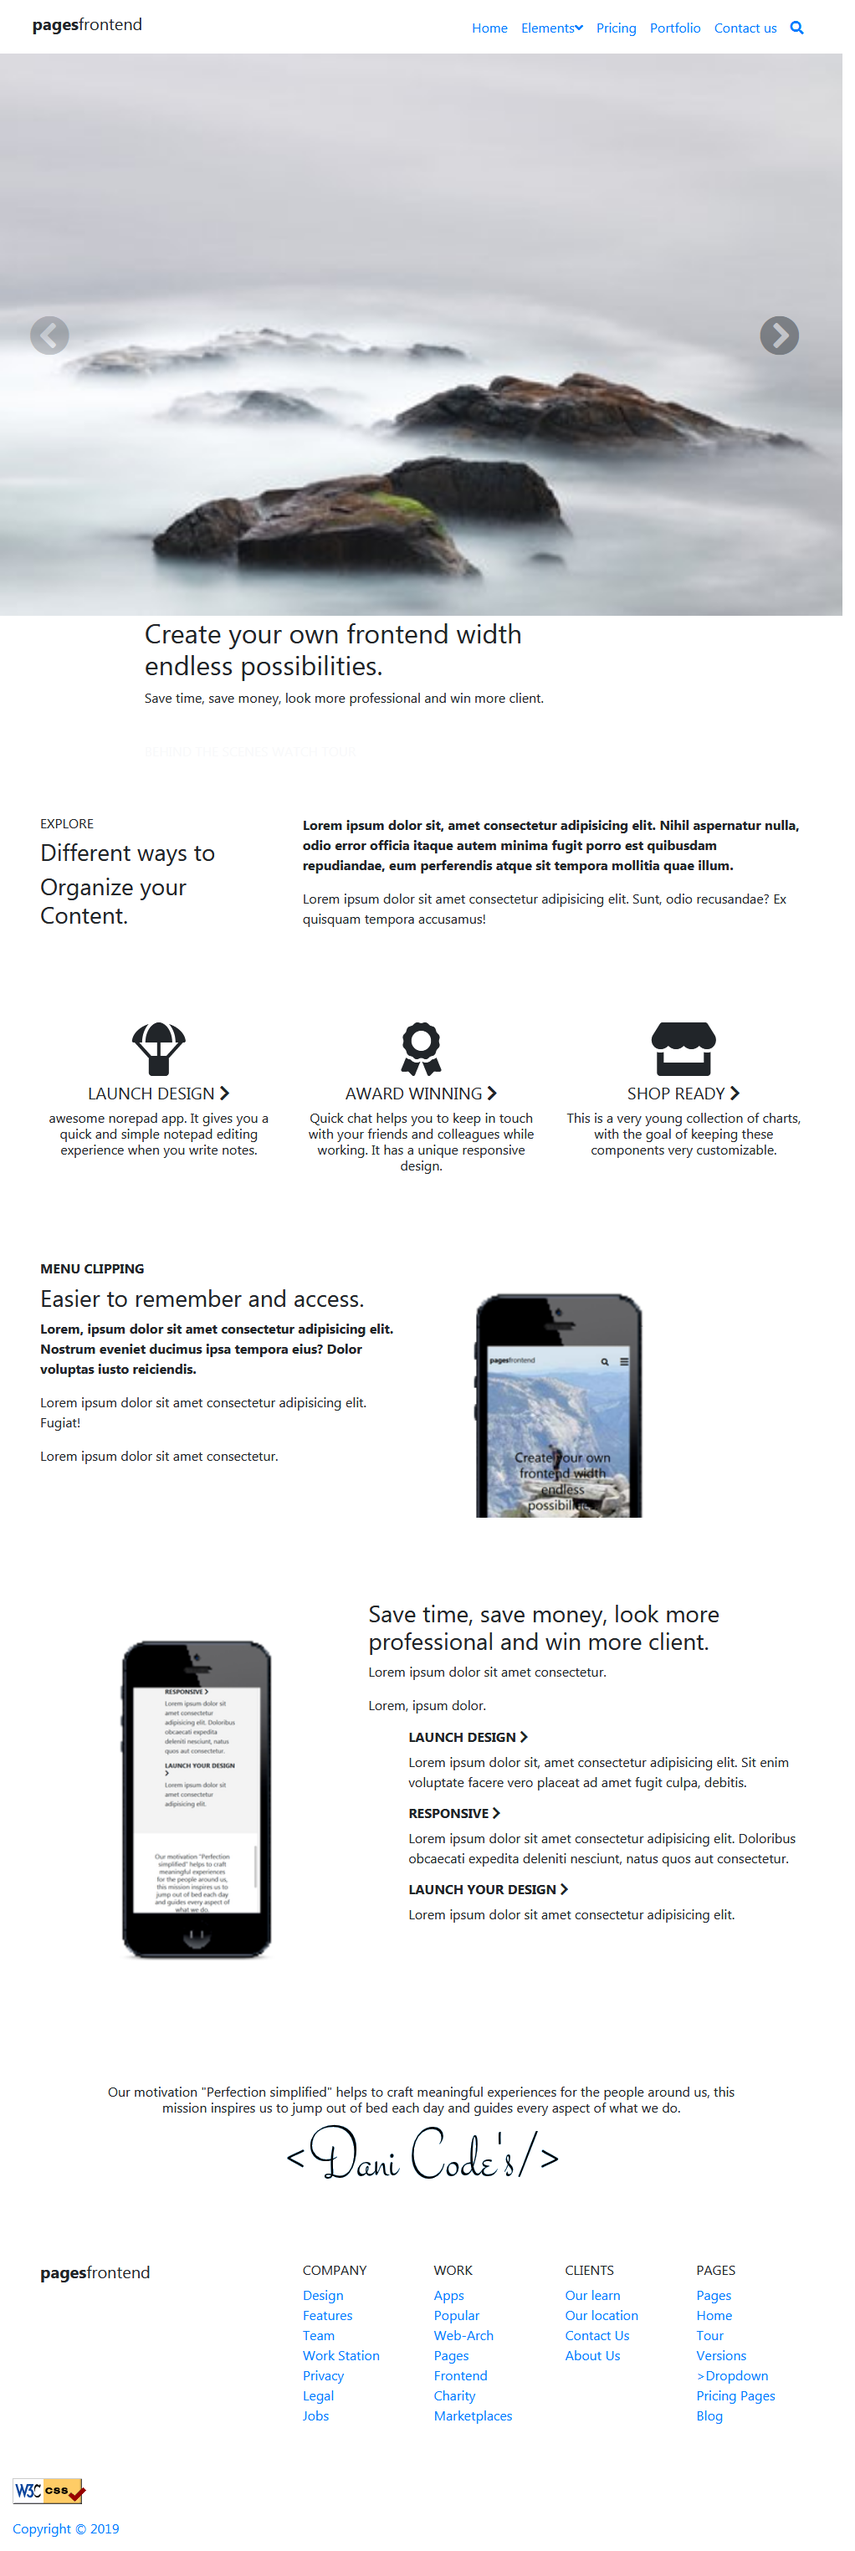
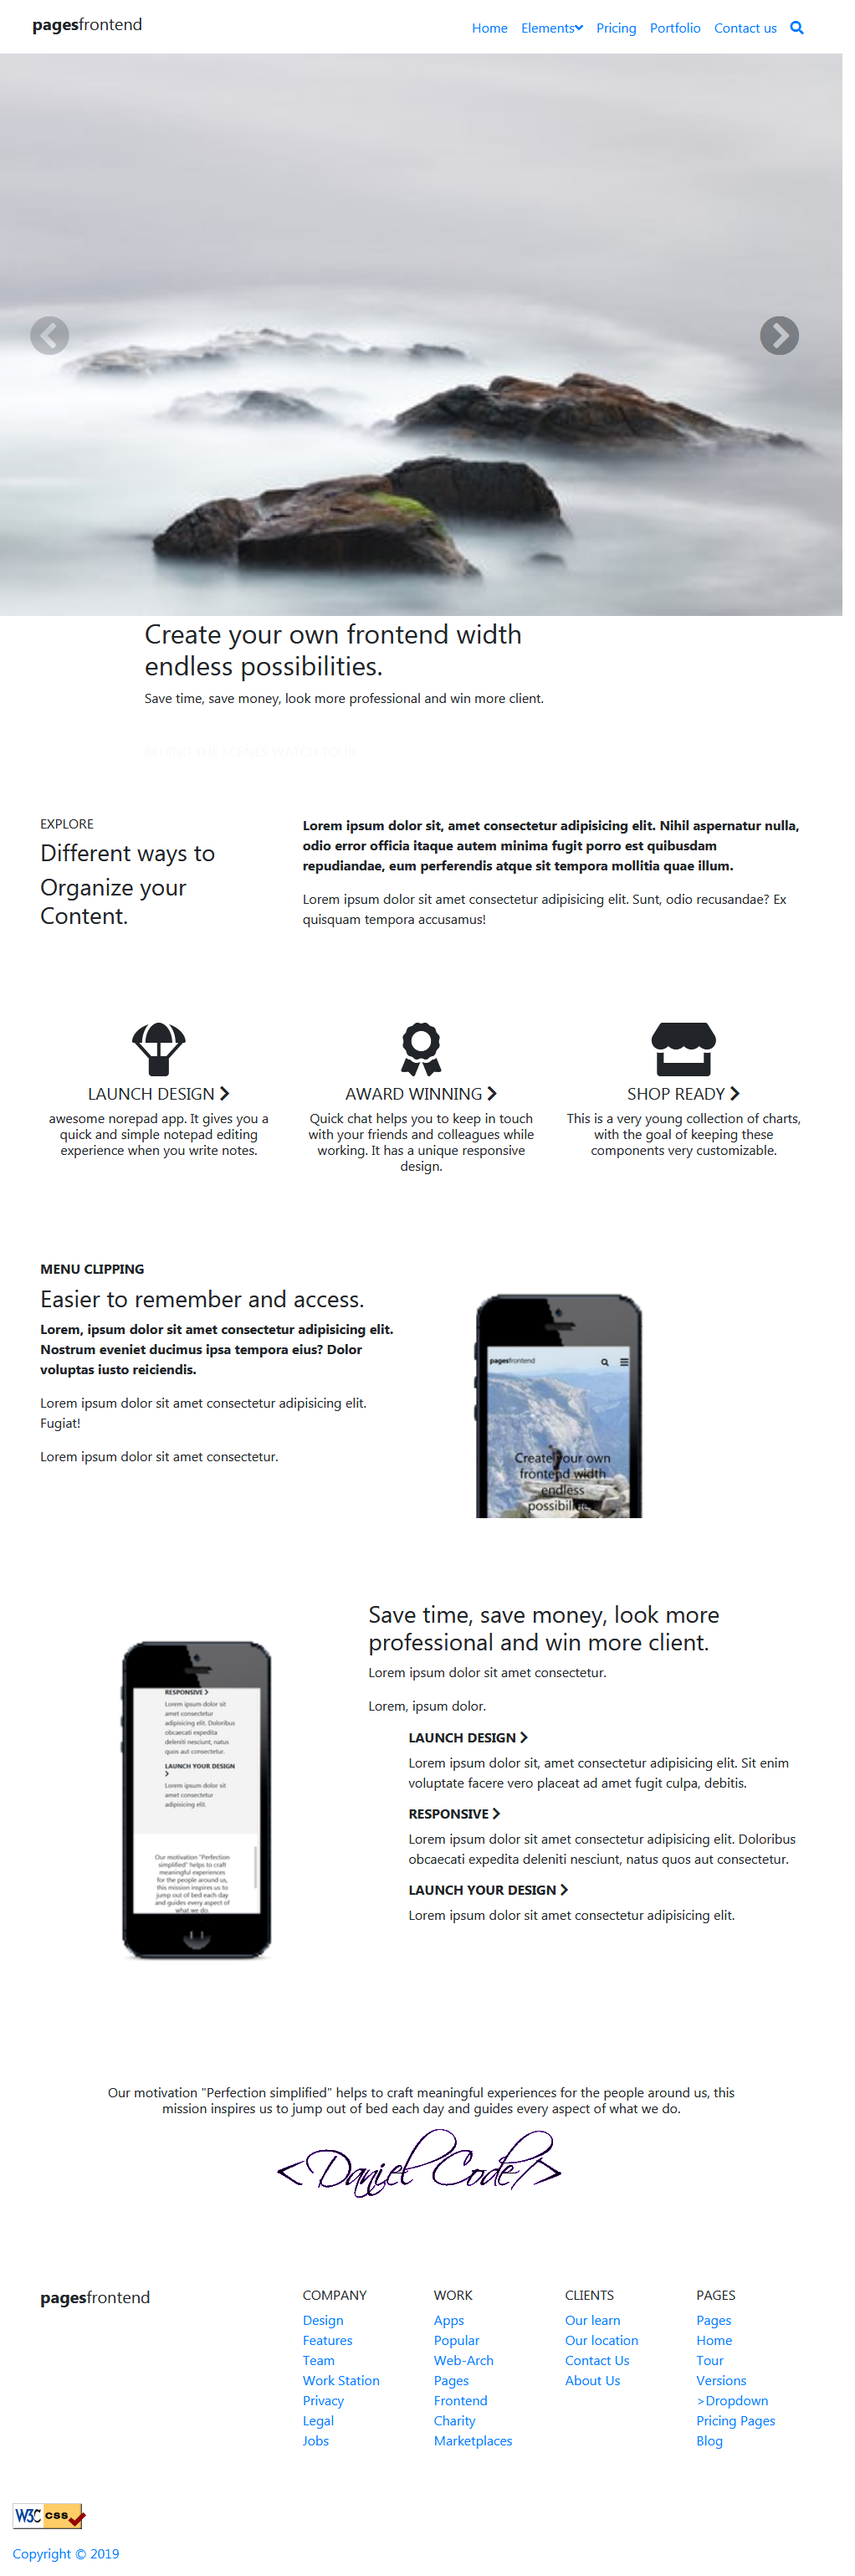
fourth commit

diff --git a/index.html b/index.html
@@ -4,37 +4,22 @@
     <meta charset="UTF-8">
     <meta name="viewport" content="width=device-width, initial-scale=1.0">
     <meta http-equiv="X-UA-Compatible" content="ie=edge">
-    <title>DaniDeveloper</title>
+    <title>Daniel Code</title>
 
     <!--    BOOTSTRAP    -->
     <link rel="stylesheet" href="https://stackpath.bootstrapcdn.com/bootstrap/4.1.3/css/bootstrap.min.css" integrity="sha384-MCw98/SFnGE8fJT3GXwEOngsV7Zt27NXFoaoApmYm81iuXoPkFOJwJ8ERdknLPMO" crossorigin="anonymous">
+    
+    <!--google fonts-->
+    <link href="https://fonts.googleapis.com/css?family=Muli" rel="stylesheet"> 
 
     <!--Custom-->
     <link rel="stylesheet" href="./css/main.css">
 </head>
 <body>
     <nav class="navbar navbar-expand-lg navbar-light bg-transparent">
-        <div class="container">
-            <a class="navbar-brand" href="#"><img src="./img/logo.png" style="width:100%" alt=""></a>
-        <button class="navbar-toggler" type="button" data-toggle="collapse" data-target="#navbarNav" aria-controls="navbarNav" aria-expanded="false" aria-label="Toggle navigation">
-            <span class="navbar-toggler-icon"></span>
-        </button>
-        <div class="collapse navbar-collapse" id="navbarNav">
-          <ul class="navbar-nav ml-auto">
-            <li class="nav-item active">
-              <a class="nav-link" href="#">Login<span class="sr-only">(current)</span></a>
-            </li>
-            <li class="nav-item">
-              <a class="nav-link" href="#">Features</a>
-            </li>
-            <li class="nav-item">
-              <a class="nav-link" href="#">Pricing</a>
-            </li>
-            <li class="nav-item">
-              <a class="nav-link disabled" href="#" tabindex="-1" aria-disabled="true">Disabled</a>
-            </li>
-          </ul>
-        </div>
+        <div class="container justify-content-center">
+            <a class="navbar-brand" href="#"><img src="./img/logo.png" style="width:100%" alt="Dani Code"></a>
+        
         </div>
     </nav>
 
@@ -44,8 +29,8 @@
                 <div class="img float-left">
                     <img src="./img/Clothing.jpg" style="width: 100%" alt="">
                     <div class="opacidad">
-                        <p><a class="text-center text-light h3 ml-3" target="_blank" href="https://dani4983.github.io/clothing/">Clothing store</a></p>
-                        <p>Using the pseudo-class :hover to display information about the product</p>
+                        <p><a class="text-center text-light h5 ml-3" target="_blank" href="https://dani4983.github.io/clothing/">Clothing store</a></p>
+                        <p class="texto">Using the pseudo-class :hover to display information about the product</p>
                     </div>
                 </div>
             </div>
@@ -54,8 +39,8 @@
                 <div class="img float-left">
                     <img src="./img/SKATERS.png" style="width: 100%" alt="">
                     <div class="opacidad">
-                        <p><a class="text-center text-light h3 ml-3" target="_blank" href="https://bootstrap-theme2skate-qexfkr6f9.now.sh">Skateboard-inspired site</a></p>
-                        <p>Use of animations for the blocks to slide when the page is refreshed</p>
+                        <p><a class="text-center text-light h5 ml-3" target="_blank" href="https://bootstrap-theme2skate-qexfkr6f9.now.sh">Skateboard inspired site</a></p>
+                        <p class="texto">Use of animations for the blocks to slide when the page is refreshed</p>
 
                     </div>
                 </div>
@@ -65,7 +50,7 @@
                 <div class="img float-left">
                     <img src="./img/Website-profesional.png" style="width: 100%" alt="">
                     <div class="opacidad">
-                        <p><a class="text-center text-light h3 ml-3" target="_blank" href="https://website-profesional-57ah633nw.now.sh">Website template</a></p>
+                        <p><a class="text-center text-light h5 ml-3" target="_blank" href="https://website-profesional-57ah633nw.now.sh">Website template</a></p>
                     </div>
                 </div>
             </div>
@@ -74,8 +59,8 @@
                 <div class="img float-left">
                     <img src="./img/Pizzeria-Anabel.jpg" style="width: 100%" alt="">
                     <div class="opacidad">
-                        <p><a class="text-center text-light h3 ml-3" target="_blank" href="https://dani4983.github.io/pizzeria-anabel/">Inspired by pizzeria</a></p>
-                        <p>With fixed funds</p>
+                        <p><a class="text-center text-light h5 ml-3" target="_blank" href="https://dani4983.github.io/pizzeria-anabel/">Inspired by pizzeria</a></p>
+                        <p class="texto">With fixed funds</p>
                     </div>
                 </div>
             </div>
@@ -84,7 +69,7 @@
                 <div class="img float-left">
                     <img src="./img/copia1.png" style="width: 100%" alt="">
                     <div class="opacidad">
-                        <p><a class="text-center text-light h3 ml-3" target="_blank" href="https://dani4983.github.io/copia1/">Copy of an internet template</a></p>
+                        <p><a class="text-center text-light h5 ml-3" target="_blank" href="https://dani4983.github.io/copia1/">Copy of an internet template</a></p>
                     </div>
                 </div>
             </div>
@@ -93,8 +78,8 @@
                 <div class="img float-left">
                     <img src="./img/e-commerce.png" style="width: 100%" alt="">
                     <div class="opacidad">
-                        <p><a class="text-center text-light h3 ml-3" target="_blank" href="https://dani4983.github.io/e-commerce/">Web-inspired for online stores</a></p>
-                        <p>An example guide to commercial stores with a 6-page pagination</p>
+                        <p><a class="text-center text-light h5 ml-3" target="_blank" href="https://dani4983.github.io/e-commerce/">Web-inspired for online stores</a></p>
+                        <p class="texto">An example guide to commercial stores with a 6-page pagination</p>
                     </div>
                 </div>
             </div>
@@ -103,7 +88,7 @@
                 <div class="img float-left">
                     <img src="./img/Copia-pagina.png" style="width: 100%" alt="">
                     <div class="opacidad">
-                        <p><a class="text-center text-light h3 ml-3" target="_blank" href="https://dani4983.github.io/copia3-stripe/">Inspired by stripe</a></p>
+                        <p><a class="text-center text-light h5 ml-3" target="_blank" href="https://dani4983.github.io/copia3-stripe/">Inspired by stripe</a></p>
                     </div>
                 </div>
             </div>
@@ -112,8 +97,8 @@
                 <div class="img float-left">
                     <img src="./img/PetWeb.jpg" style="width: 100%" alt="">
                     <div class="opacidad">
-                        <p><a class="text-center text-light h3 ml-3" target="_blank" href="https://dani4983.github.io/webpet/">For lovers of their moscotas</a></p>
-                        <p>With slider and a fixed bottom at the end of the page</p>
+                        <p><a class="text-center text-light h5 ml-3" target="_blank" href="https://dani4983.github.io/webpet/">For lovers of their moscotas</a></p>
+                        <p class="texto">With slider and a fixed bottom at the end of the page</p>
                     </div>
                 </div>
             </div>
@@ -122,8 +107,8 @@
                 <div class="img float-left">
                     <img src="./img/Tienda-online(2).png" style="width: 100%" alt="">
                     <div class="opacidad">
-                        <p><a class="text-center text-light h3 ml-3" target="_blank" href="https://dani4983.github.io/tienda-con-bootstrap/">Web of online stores</a></p>
-                        <p>this page is 100% with Bootstrap4 without css</p>
+                        <p><a class="text-center text-light h5 ml-3" target="_blank" href="https://dani4983.github.io/tienda-con-bootstrap/">Web of online stores</a></p>
+                        <p class="texto">this page is 100% with Bootstrap4 without css</p>
                     </div>
                 </div>
             </div>
@@ -132,7 +117,7 @@
                 <div class="img float-left">
                     <img src="./img/plantas.jpg" style="width: 100%" alt="">
                     <div class="opacidad">
-                        <p><a class="text-center text-light h3 ml-3" target="_blank" href="https://dani4983.github.io/plantas/">Web dedicated to plants</a></p>
+                        <p><a class="text-center text-light h5 ml-3" target="_blank" href="https://dani4983.github.io/plantas/">Web dedicated to plants</a></p>
                     </div>
                 </div>
             </div>
@@ -141,7 +126,7 @@
                 <div class="img float-left">
                     <img src="./img/Dentista.png" style="width: 100%" alt="">
                     <div class="opacidad">
-                        <p><a class="text-center text-light h3 ml-3" target="_blank" href="https://dani4983.github.io/dentista/">Dentist website</a></p>
+                        <p><a class="text-center text-light h5 ml-3" target="_blank" href="https://dani4983.github.io/dentista/">Dentist website</a></p>
                     </div>
                 </div>
             </div>
@@ -150,8 +135,8 @@
                 <div class="img float-left">
                     <img src="./img/Taller-mecánico.png" style="width: 100%" alt="">
                     <div class="opacidad">
-                        <p><a class="text-center text-light h3 ml-3" target="_blank" href="https://dani4983.github.io/tallermecanico/">Mechanical workshop</a></p>
-                        <p>Here we have animations throughout the page even in the slider</p>
+                        <p><a class="text-center text-light h5 ml-3" target="_blank" href="https://dani4983.github.io/tallermecanico/">Mechanical workshop</a></p>
+                        <p class="texto">Here we have animations throughout the page even in the slider</p>
                     </div>
                 </div>
             </div>
@@ -159,8 +144,8 @@
                 <div class="img float-left">
                     <img src="./img/Hamburguesas.png" style="width: 100%" alt="">
                     <div class="opacidad">
-                        <p><a class="text-center text-light h3 ml-3" target="_blank" href="https://dani4983.github.io/humburguesas/">Burger shop</a></p>
-                        <p>Here we have a modal with a slider that shows four images with product promotions</p>
+                        <p><a class="text-center text-light h5 ml-3" target="_blank" href="https://dani4983.github.io/humburguesas/">Burger shop</a></p>
+                        <p class="texto">Here we have a modal with a slider that shows four images with product promotions</p>
                     </div>
                 </div>
             </div>
@@ -169,16 +154,7 @@
                 <div class="img float-left">
                     <img src="./img/WEB-CACTUS.jpg" style="width: 100%" alt="">
                     <div class="opacidad">
-                        <p><a class="text-center text-light h3 ml-3" target="_blank" href="https://dani4983.github.io/webcactus/">Cactus store</a></p>
-                    </div>
-                </div>
-            </div>
-
-            <div class="col-md-6 col-lg-4">
-                <div class="img float-left">
-                    <img src="./img/Precios-simples.png" style="width: 100%" alt="">
-                    <div class="opacidad">
-                        <p><a class="text-center text-light h3 ml-3" target="_blank" href="https://dani4983.github.io/copia2/">Price template</a></p>
+                        <p><a class="text-center text-light h5 ml-3" target="_blank" href="https://dani4983.github.io/webcactus/">Cactus store</a></p>
                     </div>
                 </div>
             </div>
@@ -187,8 +163,8 @@
                 <div class="img float-left">
                     <img src="./img/COFFEE(1).jpg" style="width: 100%" alt="">
                     <div class="opacidad">
-                        <p><a class="text-center text-light h3 ml-3" target="_blank" href="https://dani4983.github.io/coffee/">Coffee shop</a></p>
-                        <p>With slider and a fixed background.</p>
+                        <p><a class="text-center text-light h5 ml-3" target="_blank" href="https://dani4983.github.io/coffee/">Coffee shop</a></p>
+                        <p class="texto">With slider and a fixed background.</p>
                     </div>
                 </div>
             </div>
@@ -198,7 +174,7 @@
                     <img src="./img/Cambia-color.png" style="width: 100%" alt="">
                     <div class="opacidad">
                         <p><a class="text-center text-light h6 ml-3" target="_blank" href="https://dani4983.github.io/colores/">Example page that changes colors</a></p>
-                        <p>Demonstration of how elements can be modified by means of buttons</p>
+                        <p class="texto">Demonstration of how elements can be modified by means of buttons</p>
                     </div>
                 </div>
             </div>
@@ -207,7 +183,7 @@
                 <div class="img float-left">
                     <img src="./img/Comidas-Argentinas.jpg" style="width: 100%" alt="">
                     <div class="opacidad">
-                        <p><a class="text-center text-light h3 ml-3" target="_blank" href="https://dani4983.github.io/comidas-argentinas/">Web of typical foods and related events</a></p>
+                        <p><a class="text-center text-light h5 ml-3" target="_blank" href="https://dani4983.github.io/comidas-argentinas/">Web of typical foods and related events</a></p>
                     </div>
                 </div>
             </div>
@@ -216,7 +192,7 @@
                 <div class="img float-left">
                     <img src="./img/Fletes-Damián.png" style="width: 100%" alt="">
                     <div class="opacidad">
-                        <p><a class="text-center text-light h3 ml-3" target="_blank" href="https://dani4983.github.io/fletes-damian/">Freight company</a></p>
+                        <p><a class="text-center text-light h5 ml-3" target="_blank" href="https://dani4983.github.io/fletes-damian/">Freight company</a></p>
                     </div>
                 </div>
             </div>
@@ -225,8 +201,8 @@
                 <div class="img float-left">
                     <img src="./img/Guía-Hoteles.jpg" style="width: 100%" alt="">
                     <div class="opacidad">
-                        <p><a class="text-center text-light h3 ml-3" target="_blank" href="https://dani4983.github.io/guia-de-hoteles/">Hotel guide</a></p>
-                        <p>With slider</p>
+                        <p><a class="text-center text-light h5 ml-3" target="_blank" href="https://dani4983.github.io/guia-de-hoteles/">Hotel guide</a></p>
+                        <p class="texto">With slider</p>
                     </div>
                 </div>
             </div>
@@ -235,7 +211,7 @@
                 <div class="img float-left">
                     <img src="./img/Instrumentos-Musicales.jpg" style="width: 100%" alt="">
                     <div class="opacidad">
-                        <p><a class="text-center text-light h3 ml-3" target="_blank" href="https://dani4983.github.io/instrumentos-musicales/">Musical instruments shop</a></p>
+                        <p><a class="text-center text-light h5 ml-3" target="_blank" href="https://dani4983.github.io/instrumentos-musicales/">Musical instruments shop</a></p>
                     </div>
                 </div>
             </div>
@@ -244,7 +220,7 @@
                 <div class="img float-left">
                     <img src="./img/Peluquería-Canina.jpg" style="width: 100%" alt="">
                     <div class="opacidad">
-                        <p><a class="text-center text-light h3 ml-3" target="_blank" href="https://dani4983.github.io/peluqueria-canina/">Dog groomer</a></p>
+                        <p><a class="text-center text-light h5 ml-3" target="_blank" href="https://dani4983.github.io/peluqueria-canina/">Dog groomer</a></p>
                     </div>
                 </div>
             </div>
@@ -253,7 +229,7 @@
                 <div class="img float-left">
                     <img src="./img/Web-Site1.jpg" style="width: 100%" alt="">
                     <div class="opacidad">
-                        <p><a class="text-center text-light h3 ml-3" target="_blank" href="https://dani4983.github.io/Web-site-1/">Website template</a></p>
+                        <p><a class="text-center text-light h5 ml-3" target="_blank" href="https://dani4983.github.io/Web-site-1/">Website template</a></p>
                     </div>
                 </div>
             </div>
@@ -262,8 +238,8 @@
                 <div class="img float-left">
                     <img src="./img/Weather-app.png" style="width: 150%; left:-25%" alt="">
                     <div class="opacidad">
-                        <p><a class="text-center text-light h3 ml-3" target="_blank" href="https://weather-f4r9qt8s8.now.sh">Simple weather application</a></p>
-                        <p>You must put the name of your city and the code of your country.</p>
+                        <p><a class="text-center text-light h5 ml-3" target="_blank" href="https://weather-f4r9qt8s8.now.sh">Simple weather application</a></p>
+                        <p class="texto">You must put the name of your city and the code of your country.</p>
                     </div>
                 </div>
             </div>

diff --git a/css/main.css b/css/main.css
@@ -16,9 +16,28 @@
 {
 	border-radius: 10px;
 	-webkit-box-shadow: inset 0 0 6px rgba(0,0,0,.3);
-	background-color: #d19494;
+	background-color: #333333;
 }
 
+.opacidad::-webkit-scrollbar-track
+{
+	-webkit-box-shadow: inset 0 0 6px rgba(0,0,0,0.3);
+	border-radius: 10px;
+	background-color: #F5F5F5;
+}
+
+.opacidad::-webkit-scrollbar
+{
+	width: 12px;
+	background-color: #F5F5F5;
+}
+
+.opacidad::-webkit-scrollbar-thumb
+{
+	border-radius: 10px;
+	-webkit-box-shadow: inset 0 0 6px rgba(0,0,0,.3);
+	background-color: #7fb0b3;
+}
 
 *{
     margin: 0;
@@ -27,12 +46,14 @@
 
 body{
     background: rgba(165, 161, 161, 0.6);
+    font-family: 'Muli', sans-serif;
 }
 
 .img{
-    direction: rtl;
+    
     margin: 30px 0;
     overflow-y: scroll;
+    overflow-x: hidden;
     width: 100%;
     height: 250px;
 }
@@ -46,10 +67,18 @@ body{
 .opacidad{
     position: absolute;
     z-index: 1;
+    direction: rtl;
+    overflow-y: scroll;
+    overflow-x: hidden;
     width: 50%;
     height: 250px;
     background: rgba(165, 161, 161, 0.6);
     opacity: 0;
+}
+
+.texto{
+    color: #333333;
+    font-weight: 900;
 }
 
 .img:hover .opacidad{
